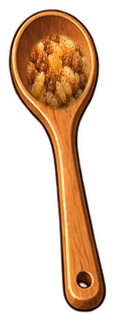
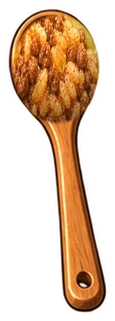
Kasika sa nadevom skroz puna

Changed region(s): [[0.1043, 0.0312, 0.8609, 0.405]]

diff --git a/js/nadev-spoon.js b/js/nadev-spoon.js
@@ -17,7 +17,7 @@ function nadevPan(e){
 function spoon(){
   if(NS.el&&NS.el.isConnected)return NS.el;
   var d=document.createElement('div');d.id='nadevSpoon';d.style.cssText='position:absolute;left:0;top:0;width:'+W+'px;height:'+H+'px;pointer-events:none;display:none;z-index:11600;transform-origin:50% 16%';
-  var im=document.createElement('img');im.src='assets/sarma/kasika_nadev.webp?v=1';im.draggable=false;im.style.cssText='width:100%;height:100%;object-fit:contain;pointer-events:none;filter:drop-shadow(0 1px 1px rgba(0,0,0,.45))';      // the picture of the spoon WITH the real filling in its bowl
+  var im=document.createElement('img');im.src='assets/sarma/kasika_nadev.webp?v=2';im.draggable=false;im.style.cssText='width:100%;height:100%;object-fit:contain;pointer-events:none;filter:drop-shadow(0 1px 1px rgba(0,0,0,.45))';      // the picture of the spoon WITH the real filling in its bowl
   d.appendChild(im);scene.appendChild(d);NS.el=d;return d;
 }
 function place(){var p=screenToScene(mouse.x,mouse.y);spoon().style.transform='translate3d('+(p.x-W/2).toFixed(1)+'px,'+(p.y-H*.16).toFixed(1)+'px,0)';}

diff --git a/index.html b/index.html
@@ -205,7 +205,7 @@
 <script src="js/istraga.js?v=5"></script>
 <script src="js/kafa.js?v=3"></script>
 <script src="js/board-shadow-tool.js?v=2"></script>
-<script src="js/nadev-spoon.js?v=8"></script>
+<script src="js/nadev-spoon.js?v=9"></script>
 <script src="js/game.js?v=3.322"></script>
 <script src="js/meat-menu.js?v=1"></script>
 <script src="js/kitchen-clean.js?v=6133"></script>

diff --git a/NOTES.md b/NOTES.md
@@ -1430,3 +1430,4 @@ Završi dan (`js/day-report.js`, `CooksterDayReport`): dugme „🌙 Završi dan
 - 10.11.: motanje sarme koristi samo DEBELU domacu sarmu (sarma_debela.zip, assets/sarma/f1..f8.webp v2, zajednicki okvir 8,100-1246,1088, 720 px); prvi tanki set se ne koristi (zamenjen). sarma.js v6, catalog 3.7321. Logika ista: 2 klika dole, levo, desno, tockic.
 - 10.11.: NADEV KASIKOM NA LIST (js/nadev-spoon.js v7, ucitava se PRE game.js jer igra zaustavlja pointerdown mesanja; sarma.js v7 + assets/sarma/f0.webp prazan list): kratak klik (bez pomeranja) praznih ruku na nadev u tiganju = velika kasika uzme 0.6 doze (+ isti udeo pirinca) -> 10 sarmi iz jedne kese (6 doza); klik na donji deo PRAZNOG lista ga stavlja (f0 -> f1), pa 2 klika dole, levo, desno, tockic. Esc / desni klik vraca nadev u tiganj. List bez nadeva ne moze da se mota (savet). f0 = Milosev prazan list prilagodjen u okvir f1 (oblik malo drugaciji od f1: kratak prelaz).
 - 10.11.: kasika sa nadevom je prava slika (assets/sarma/kasika_nadev.webp: drvena kasika + isecak pravog nadeva iz f1 u udubljenju), ne vise nacrtan krug u kodu (nadev-spoon v8).
+- 10.11.: kasika sa nadevom skroz puna do ivice (kasika_nadev.webp v2).
